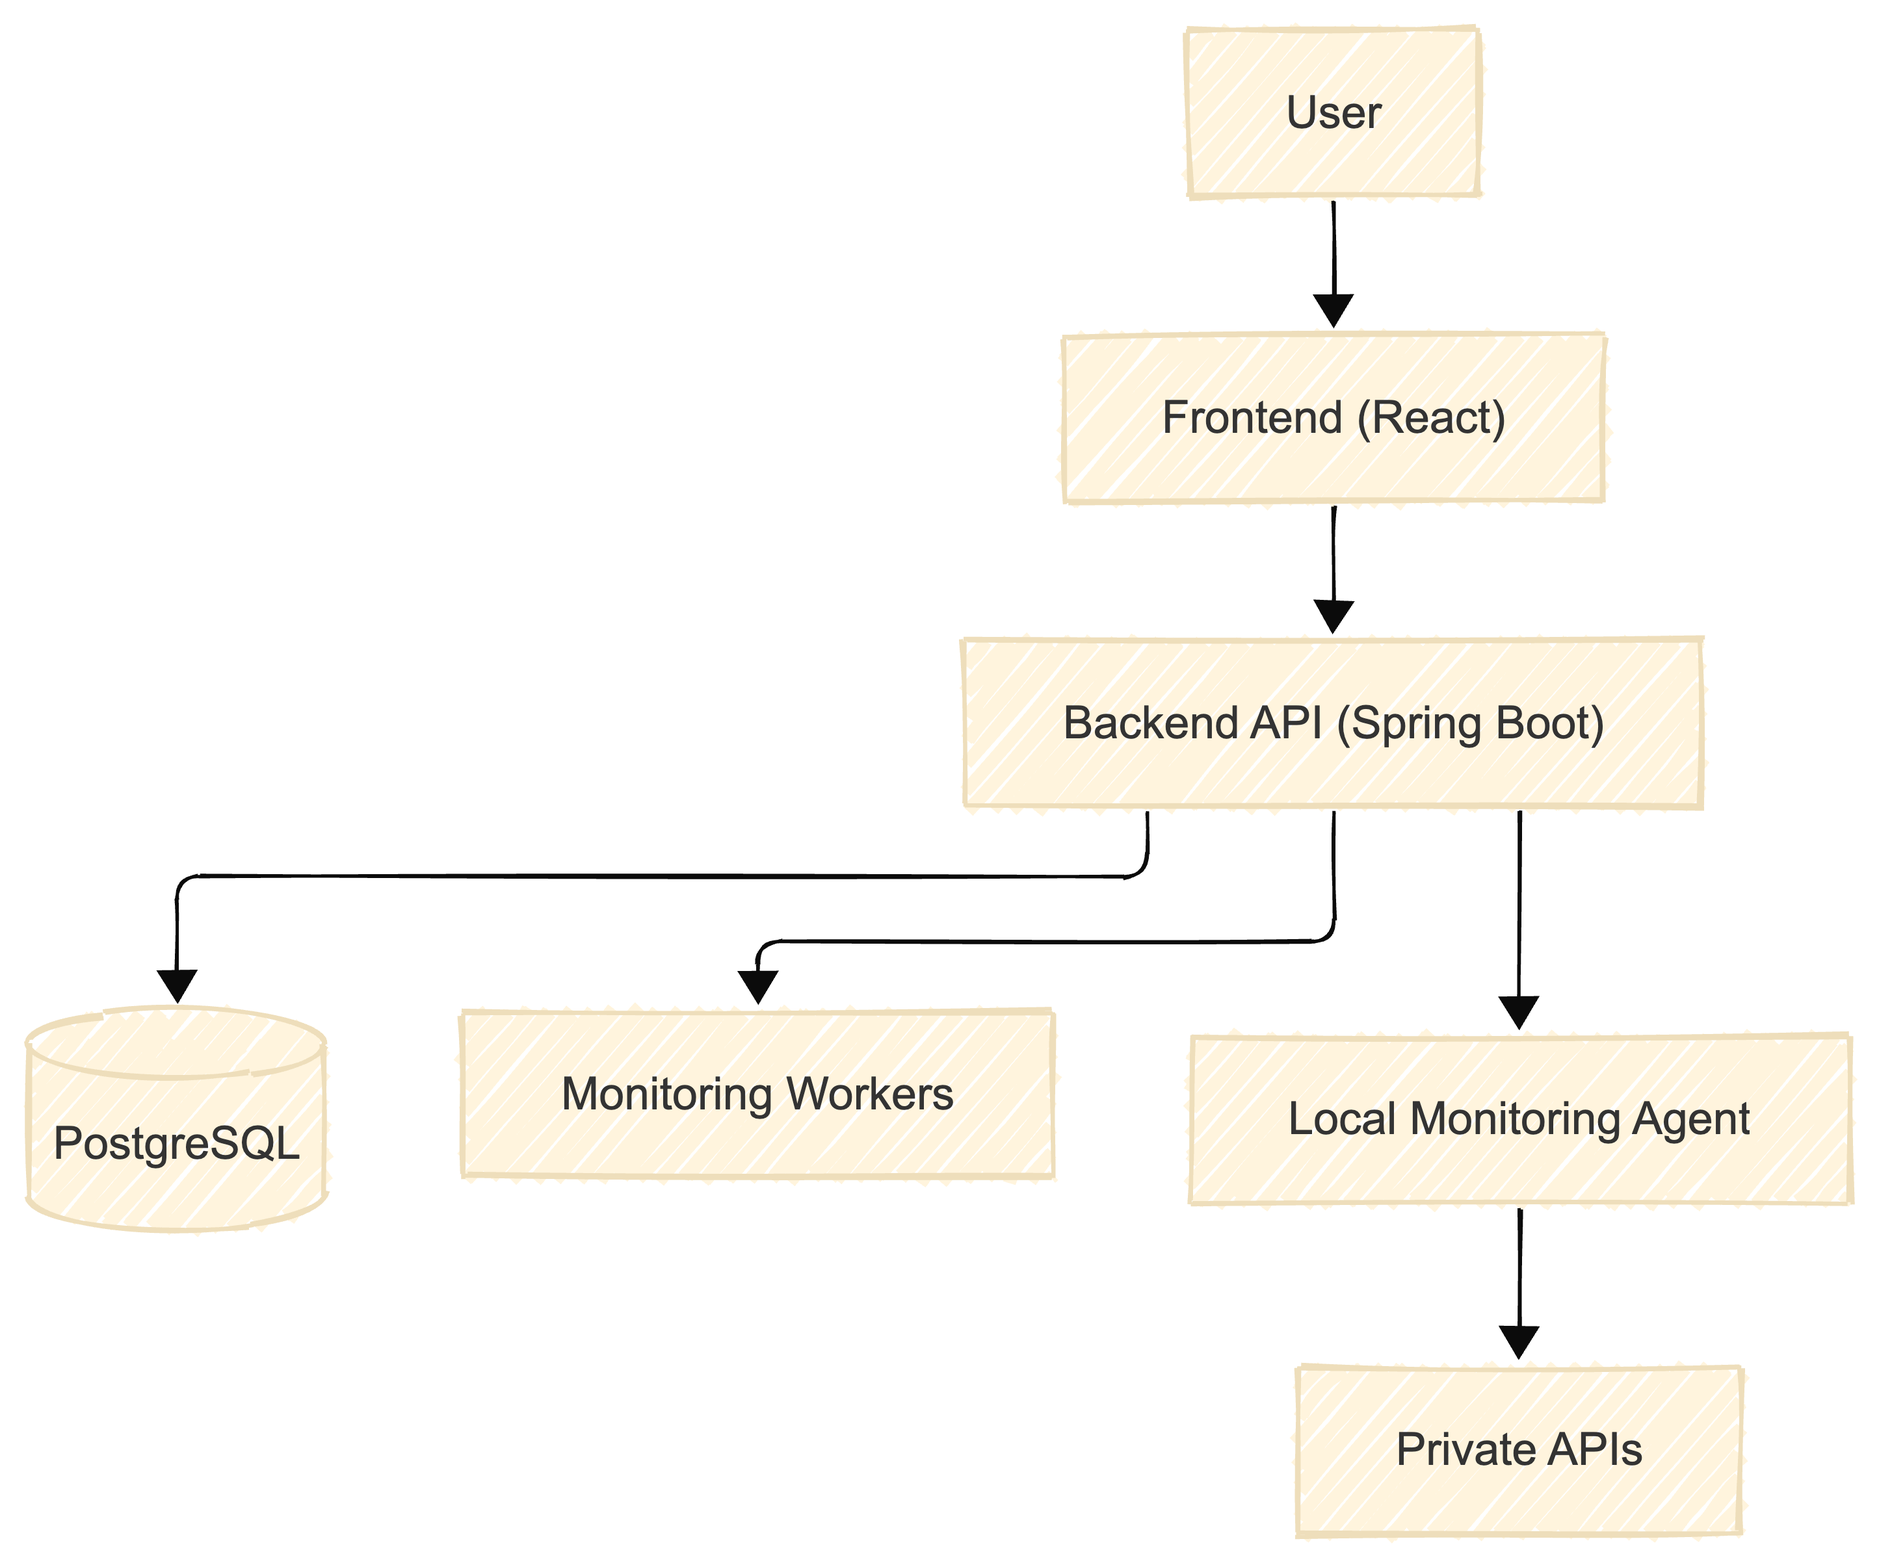
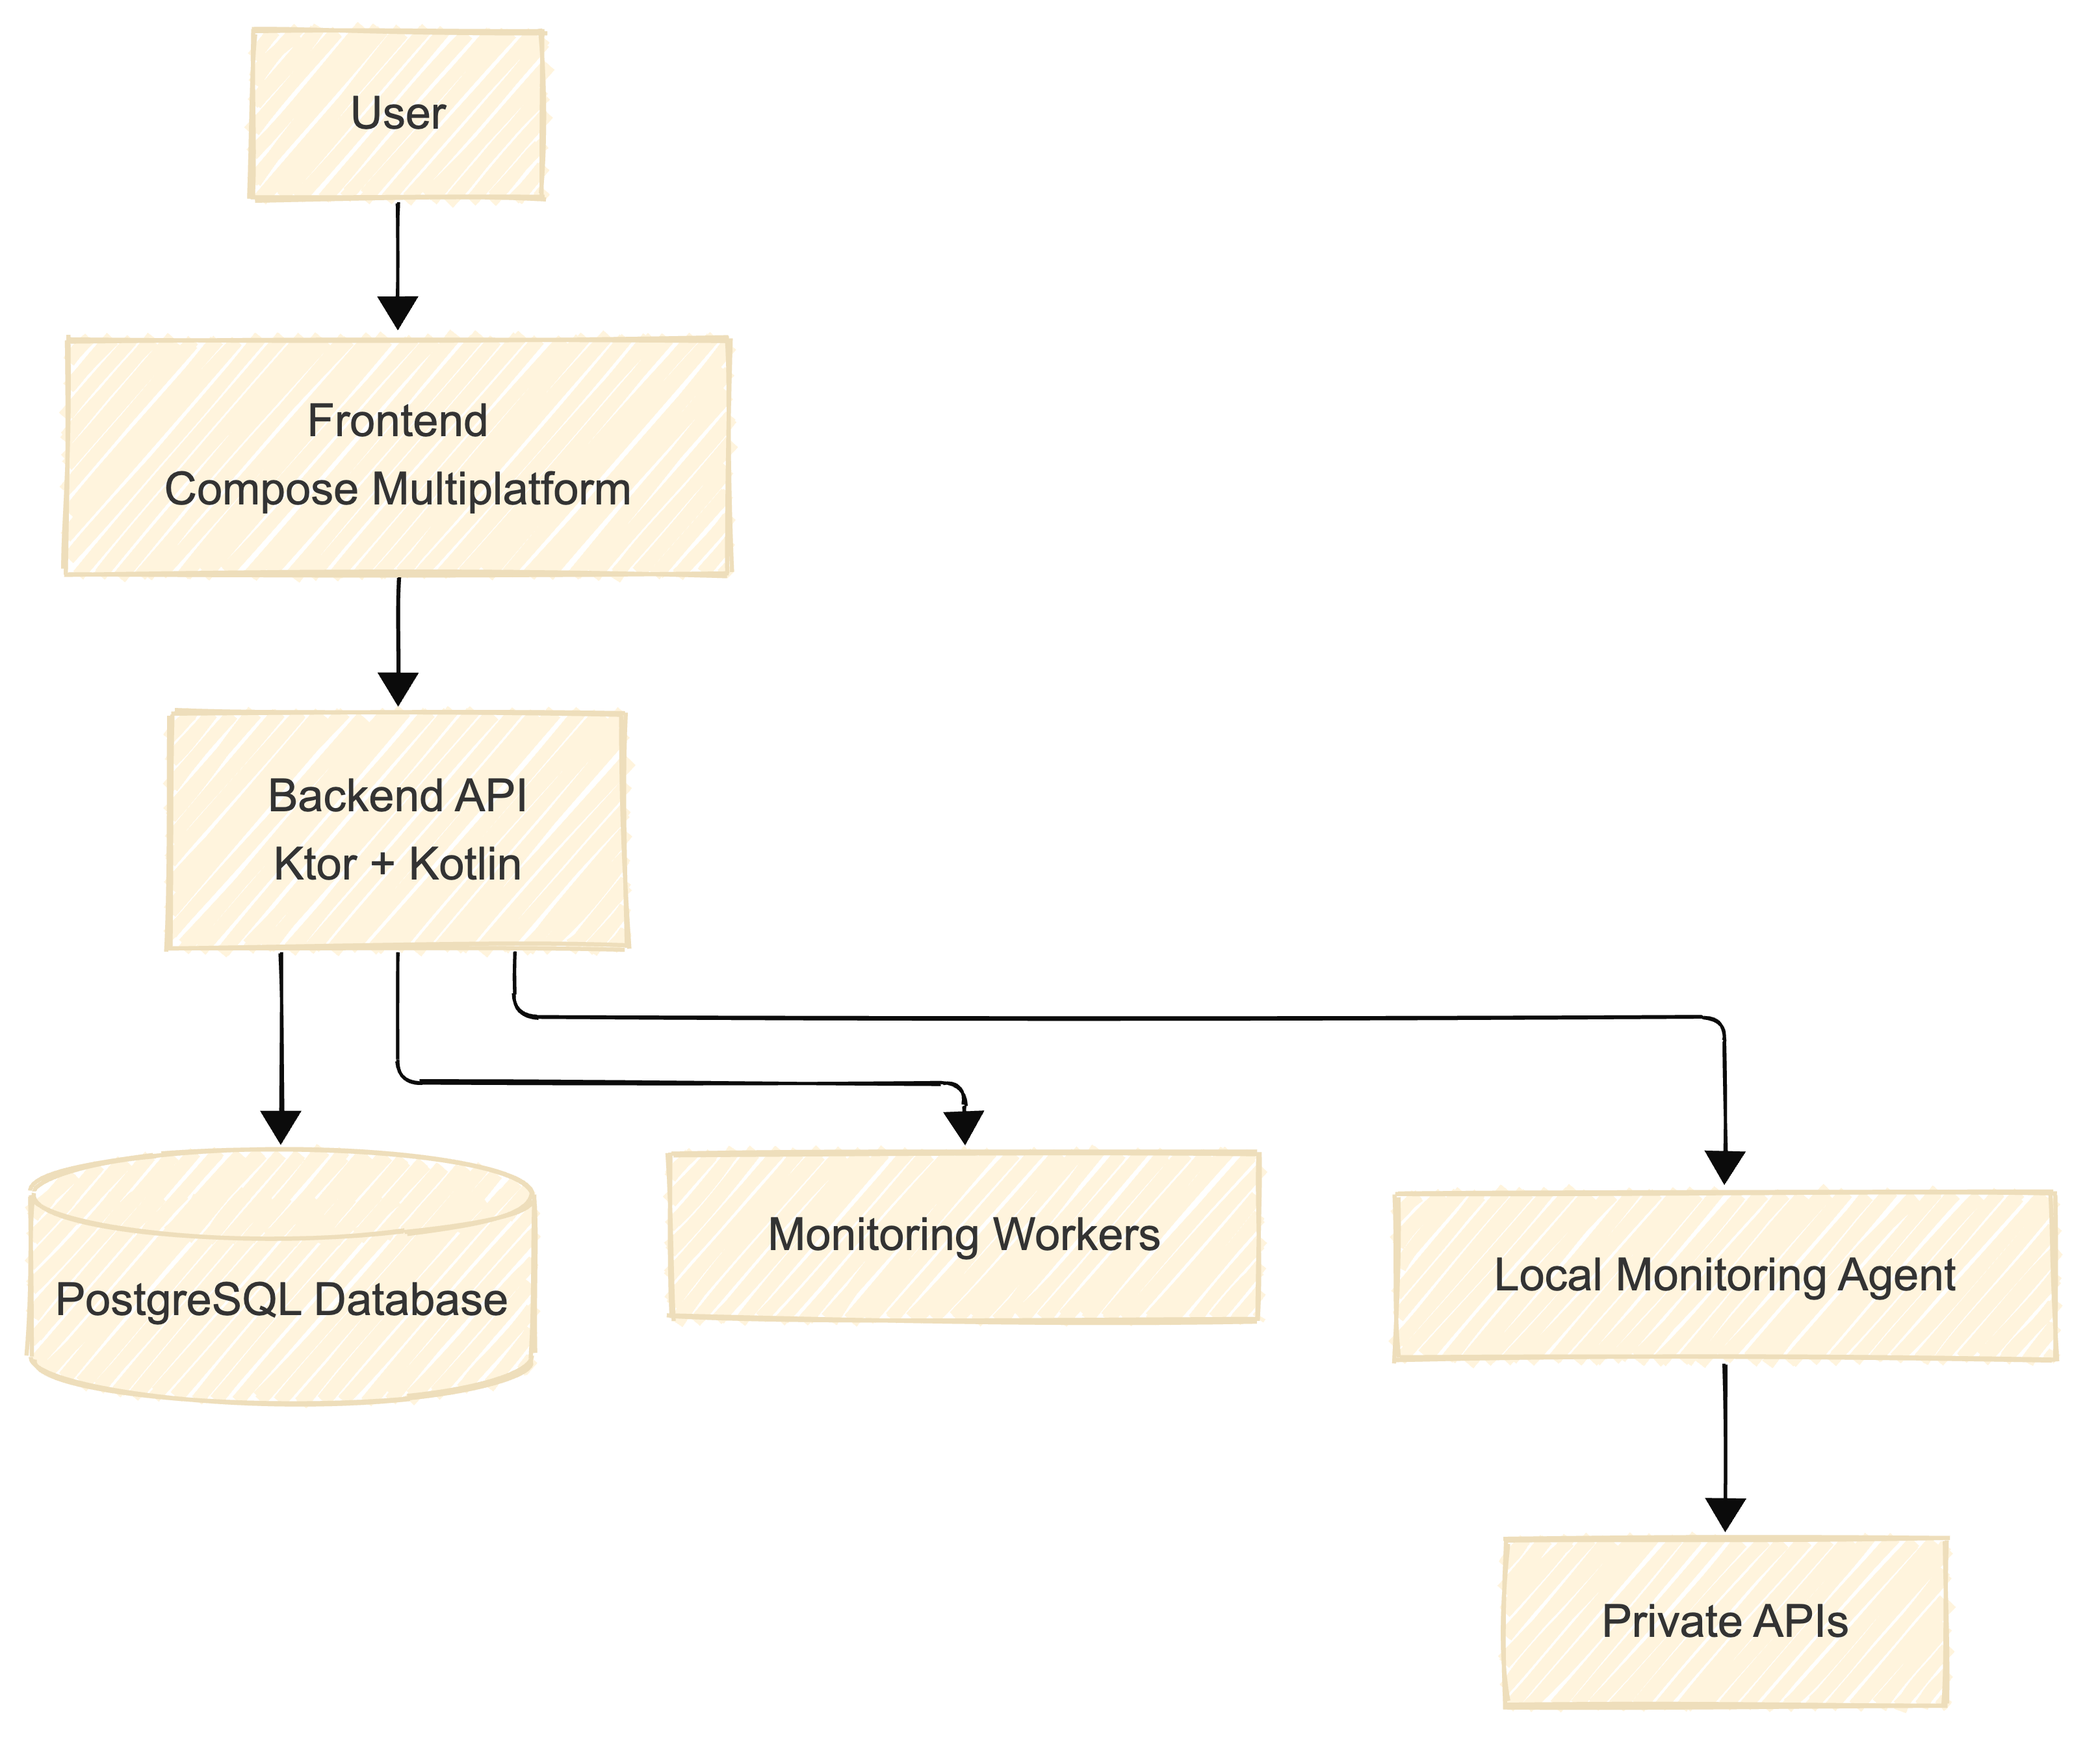
docs: update architecture, data model, and metrics format documentation; reflect changes in system components and data structures

diff --git a/README.md b/README.md
@@ -1,4 +1,4 @@
-# 🚀 API Performance Monitor
+# API Performance Monitor
 
 A modern observability platform for monitoring API performance, availability, and reliability with support for both public and private services.
 
@@ -9,9 +9,9 @@ A modern observability platform for monitoring API performance, availability, an
 **API Performance Monitor** is a distributed monitoring platform designed to help developers and teams track the health of their APIs in real-time.
 
 It combines:
-- 🌐 Cloud-based control plane (SaaS)
-- ⚙ Distributed monitoring workers
-- 🏠 Local agents for private / internal APIs
+- Cloud-based control plane (SaaS)
+- Distributed monitoring workers
+- Local agents for private / internal APIs
 
 The platform continuously executes HTTP checks and collects key metrics such as:
 - Latency
@@ -23,29 +23,29 @@ This allows users to detect failures early, analyze trends, and receive alerts w
 
 ---
 
-## ✨ Features
+## Features
 
-- 🔐 User authentication (register / login)
-- 🌍 API endpoint monitoring (custom intervals)
-- 📊 Real-time metrics collection (latency, status, success rate)
-- 📈 Historical data & dashboards
-- 🚨 Configurable alerting system
-- 🏠 Local monitoring agent for private APIs
-- ⚡ Asynchronous monitoring workers
+- User authentication (register / login)
+- API endpoint monitoring (custom intervals)
+- Real-time metrics collection (latency, status, success rate)
+- Historical data & dashboards
+- Configurable alerting system
+- Local monitoring agent for private APIs
+- Asynchronous monitoring workers
 
 ---
 
-## 🏗 Architecture
+## Architecture
 
 The system is composed of five main components:
 
-- Frontend (React + TypeScript)
-- Backend (Spring Boot + Kotlin)
+- Client Application (Compose Multiplatform)
+- Backend Service (Ktor + Kotlin)
 - Monitoring Workers
 - Local Monitoring Agent
 - PostgreSQL Database
 
-### 🔄 Monitoring Flow
+### Monitoring Flow
 
 1. Users register endpoints to monitor  
 2. Workers execute periodic HTTP requests  
@@ -57,34 +57,30 @@ Workers operate asynchronously and independently from the backend.
 
 ---
 
-## 📊 Metrics
+## Metrics
 
 Each monitoring check generates a metric with the following structure:
 
 ```json
 {
-  "endpointId": "uuid",
+  "endpoint": "https://api.example.com",
   "timestamp": "2026-03-16T17:00:00Z",
-  "latencyMs": 123,
-  "statusCode": 200,
-  "success": true,
-  "error": null,
-  "workerId": "worker-1"
+  "latency": 123,
+  "statusCode": 200
 }
 ```
 
 Collected metrics include:
-- Latency
+- latency (in milliseconds)
 - HTTP status code
-- Success/failure
-- Error details
-- Timestamp
+- timestamp of the request
+- endpoint URL
 
 Uptime is computed dynamically based on monitoring results.
 
 ---
 
-## 🧠 Data Model
+## Data Model
 
 ###### Main entities:
 - Users
@@ -95,18 +91,18 @@ Each endpoint is periodically checked and produces time-series monitoring data.
 
 ---
 
-## 📈 API
+## API
 
-### 🔐 Auth
+### Auth
 POST /auth/register  
 POST /auth/login
 
-### 🌍 Endpoints
+### Endpoints
 GET /endpoints
 POST /endpoints
 DELETE /endpoints/{id}
 
-### 📊 Metrics
+### Metrics
 POST /metrics  
 GET /endpoints/{id}/metrics
 
@@ -125,19 +121,19 @@ Content-Type: application/json
 
 ---
 
-## ⚙ Tech Stack
+## Tech Stack
 
 | Layer       | Technology              |
 |------------|------------------------|
-| Backend     | Kotlin + Spring Boot   |
-| Frontend    | React + TypeScript     |
+| Backend     | Kotlin + Ktor          |
+| Frontend    | Compose Multiplatform  |
 | Database    | PostgreSQL             |
 | Workers     | Kotlin (async jobs)    |
 | Agent       | Kotlin (local runtime) |
 
 ---
 
-## 🧪 Project Status
+## Project Status
 
 🚧 Currently under development as part of the final-year project (PS 2025/2026).
 
@@ -150,7 +146,7 @@ Content-Type: application/json
 
 ---
 
-## 🎯 Goals
+## Our Main Goals
 
 - Provide a simple and scalable API monitoring solution
 - Support both public and private APIs securely
@@ -159,7 +155,7 @@ Content-Type: application/json
 
 ---
 
-## 👥 Team
+## Team
 
 - Francisco Aragão Dias  
 - Martim Ferreira  
@@ -169,7 +165,7 @@ Supervisor:
 
 ---
 
-## 📌 Future Work
+## Future Work
 
 - Alert integrations (Slack, Email, etc.)
 - Advanced dashboards & visualizations
@@ -178,6 +174,6 @@ Supervisor:
 
 ---
 
-## 📄 License
+## License
 
 © 2026 Francisco Aragão Dias | Martim Ferreira. All rights reserved.

diff --git a/docs/architecture.md b/docs/architecture.md
@@ -1,16 +1,31 @@
 # System Architecture
 
-The system is composed of five main components:
+The system is composed of the following main components:
 
-- Web Frontend (React + TypeScript)
-- Backend Service (Spring Boot + Kotlin)
+- Client Application (Compose Multiplatform)
+- Backend Service (Ktor + Kotlin)
 - Monitoring Workers
-- Local Monitoring Agent
-- PostgreSQL Database
+- Local Monitoring Agent (future component)
+- Data Storage (in-memory for now, PostgreSQL in future)
 
-Users interact with the frontend which communicates with the backend REST API.
-Monitoring workers periodically execute HTTP checks on registered endpoints and send monitoring metrics to the backend service.
+## Overview
 
-The backend stores metrics and evaluates alert rules.
+Users interact with the client application, built using Compose Multiplatform, which communicates with the backend through a REST API implemented with Ktor.
+
+The backend is responsible for:
+
+- managing user accounts
+- storing monitored endpoints (in-memory)
+- receiving monitoring metrics
+- computing aggregated metrics (e.g., uptime, latency)
+
+Monitoring workers execute periodic HTTP checks on registered endpoints, collecting metrics such as latency and status codes. These metrics are then sent to the backend.
+
+A local monitoring agent is planned for future implementation, allowing monitoring of private/internal APIs from within the user’s infrastructure.
+
+## Notes
+
+At this stage, the system is implemented using an **in-memory data store** to simplify development and enable fast prototyping.
+A relational database (PostgreSQL) will be introduced in later stages of the project.
 
 ![System Architecture](./diagrams/system-architecture.png)

diff --git a/docs/metrics-format.md b/docs/metrics-format.md
@@ -1,25 +1,41 @@
 # Monitoring Metrics Format
 
 Workers collect monitoring results for each executed API check.
+At this stage, the system uses a simplified metric structure aligned with the current domain model.
 
 Example metric payload:
 
 {
-  "endpointId": "uuid",
+  "endpoint": "https://api.example.com",
   "timestamp": "2026-03-16T17:00:00Z",
-  "latencyMs": 123,
-  "statusCode": 200,
-  "success": true,
-  "error": null,
-  "workerId": "worker-1"
+  "latency": 123,
+  "statusCode": 200
 }
 
 Collected metrics include:
 
-- latency
+- latency (in milliseconds)
 - HTTP status code
-- success/failure
-- error information
-- timestamp
+- timestamp of the request
+- endpoint URL
 
 The uptime will be calculated dynamically from monitoring results to avoid storing redundant aggregated metrics in the database.
+
+##### Notes
+- The success of a request can be derived from the HTTP status code (e.g., 2xx = success).
+- Error information is not explicitly stored at this stage.
+- Metrics are stored in-memory for the current prototype.
+
+##### Aggregated Metrics (computed)
+
+Aggregated metrics are calculated dynamically from raw request metrics and are not persisted.
+
+These include:
+- average latency
+- uptime
+- error rate
+- percentiles (p95, p99)
+- throughput
+- status code distribution
+
+The uptime is calculated dynamically based on successful vs total requests.

diff --git a/docs/data-model.md b/docs/data-model.md
@@ -1,35 +1,30 @@
 # Data Model
 
-![Data Model](./diagrams/data-model.png)
-
 ## users
 
 | field | type |
 |------|------|
-id | uuid
-email | text
-password_hash | text
+id | int
+username | string
+password_hash | string
 created_at | timestamp
 
 ## endpoints
 
 | field | type |
 |------|------|
-id | uuid
-user_id | uuid
-url | text
-http_method | text
-monitor_interval_seconds | integer
+id | int
+user_id | int
+url | url
+name | string
+intervalSeconds | long
+createdAt | timestamp
 
 ## monitoring_results
 
 | field | type |
 |------|------|
-id | uuid
-endpoint_id | uuid
+endpoint_id | string
 timestamp | timestamp
-latency_ms | integer
-status_code | integer
-success | boolean
-error_message | text
-worker_id | text
+latency | long
+status_code | int
